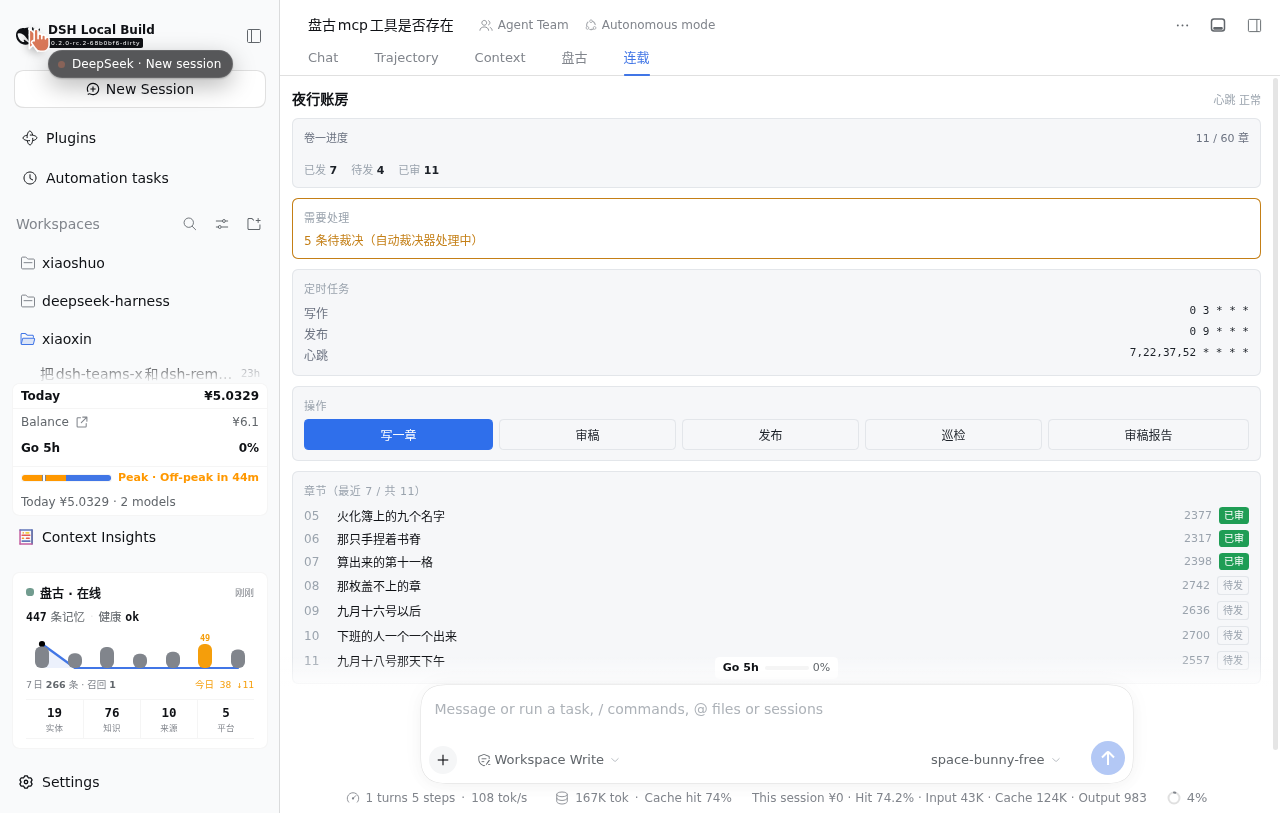
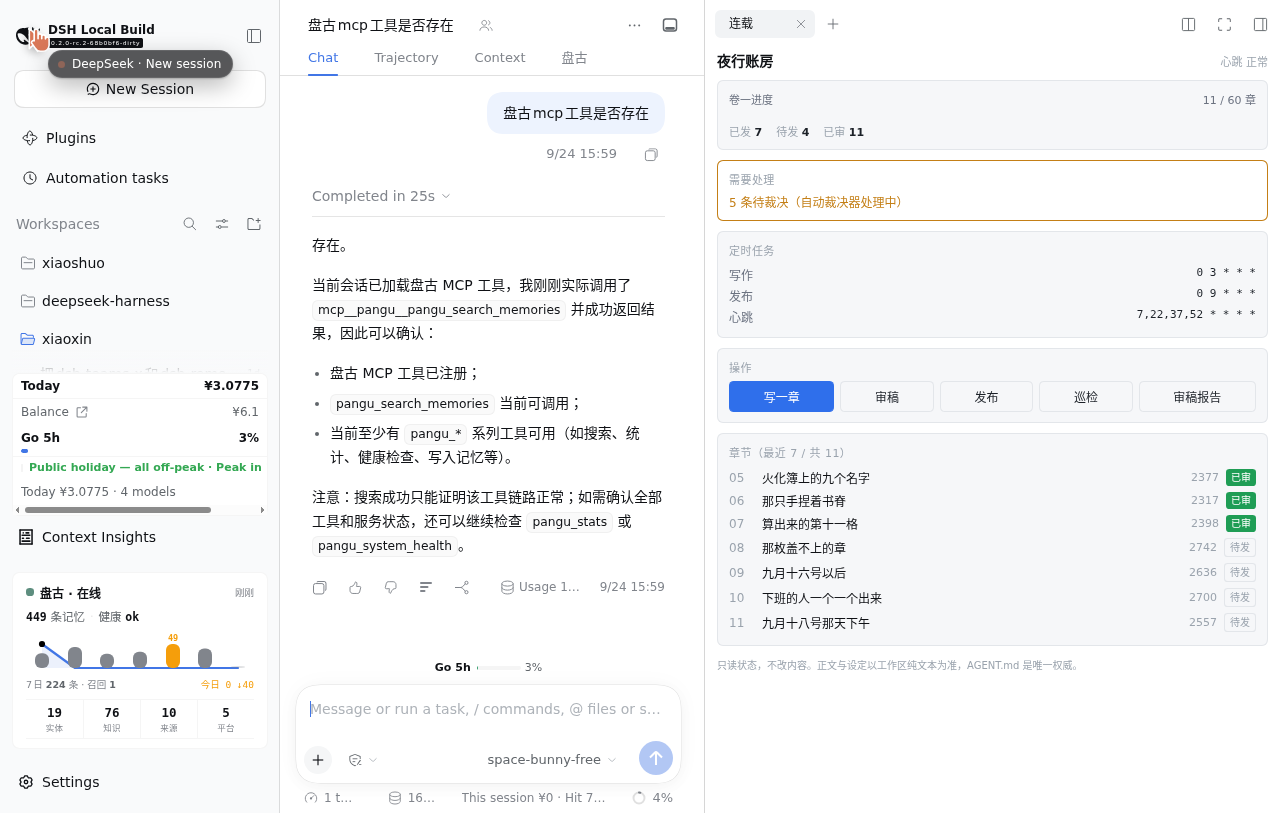
面板接通：右栏生效，「+」菜单打开，数据全部渲染
## 最后一环（不是代码 bug）
tabs.register 注册的是 tab **类型**，它出现在右栏的「+」菜单里；
tab **实例**需要被创建。我之前一直把「菜单里能看到连载」当成「面板已打开」，
于是在一个**空的 tab 条**上反复量、反复改代码 —— 代码从头到尾都是对的。

实测验证（点「+」→ 连载后）：
  连载 夜行账房 心跳正常 卷一进度 11/60 已发7 待发4 已审11
  需要处理 5 条待裁决 · 定时任务 3 条 · 操作 4 个按钮 · 章节徽标 7 行
重载后 tab 仍在（dockkit 按会话持久化）—— 用户只需打开一次。

## 本轮真正修掉的（都是真 bug，但不是最后那道门）
1. package.json 缺 dsh.client → 客户端模块从未被加载
2. ctx.slots 顶层解引用 → cannot get property "slots" without inject
3. 插槽是三层嵌套（rightbar → rightbar.session → sidebar.right.pane.tab）

## 教训
「注册成功」≠「已渲染」。判断 UI 是否生效，必须在 DOM 里看到它，
而不是看到菜单项、日志或注册返回值。

诊断日志已清理，16 项测试全过。README 补上「首次要手动打开」这一步。

diff --git a/lib/client.js b/lib/client.js
@@ -40,22 +40,12 @@ window.__ModuleLoader__.load({
   //   1) module 由 factory **自己造**，不是宿主传进来的 —— 我之前用宿主的 module 参数，
   //      结果 module 是 undefined，`module.exports = {...}` 静默失效，apply 永远不是函数。
   //   2) React 用 require('react') 拿，不是全局 —— 宿主已经把它打进 require 了。
-  try { localStorage.setItem('__xs_factory', 'called') } catch {}
   const module = { exports: {} }
   const React = require('react')
   const h = React.createElement
 
 
 
-  // ── DIAG（本轮排障用，定位后整段删除）──────────────────────────
-  const DIAG = (m) => {
-    try {
-      const a = JSON.parse(localStorage.getItem('__xs_diag') || '[]')
-      a.push(String(m).slice(0, 400))
-      localStorage.setItem('__xs_diag', JSON.stringify(a.slice(-30)))
-    } catch {}
-  }
-  try { localStorage.removeItem('__xs_diag'); localStorage.setItem('__xs_factory', 'pending') } catch {}
   const API = '/xiaoshuo/api'
 
   /* ── 设计令牌（跟随 DSH 亮/暗两套）── */
@@ -146,7 +136,6 @@ window.__ModuleLoader__.load({
 
   /* ── 主面板 ── */
   function Panel(props) {
-    DIAG('Panel 被渲染 props=' + Object.keys(props || {}).join(','))
     const [snap, setSnap] = React.useState(null)
     const [sched, setSched] = React.useState([])
     const [busy, setBusy] = React.useState('')
@@ -156,7 +145,6 @@ window.__ModuleLoader__.load({
 
     const load = React.useCallback(async () => {
       try {
-      DIAG('fetch 发出')
       const r = await fetch(`${API}/status`)
         const j = await r.json()
         if (j.ok) { setSnap(j.snapshot); setSched(j.schedule || []); setFail('') }
@@ -308,12 +296,10 @@ function TabTitle() {
 async function apply(ctx) {
   try {
     const TAB = 'dsh-xiaoshuo'
-    DIAG('apply 入口, ctx 键: ' + Object.keys(ctx).join(','))
 
     // ① 注册 tab 类型 —— 走响应式注入，服务晚到会自动重跑这一步
     ctx.inject(['sidebarRightTabs'], (injected) => {
       const tabs = injected.get('sidebarRightTabs')
-      DIAG('inject 回调触发, tabs=' + typeof tabs)
       if (tabs === undefined) return
       const disposeType = tabs.register({
         id: TAB,
@@ -328,28 +314,23 @@ async function apply(ctx) {
 
       // ② 注册内容插槽（keyed：用 key 绑到上面那个 tab id）
       const disposers = []
-      DIAG('准备 slots.inject; ctx.get(slots)=' + typeof ctx.get('slots'))
       try {
-        const d = ctx.get('slots').inject('sidebar.right.pane.tab', () => {
-          DIAG('pane.tab 插槽回调触发')
-          return ctx.get('slots').register(
+        disposers.push(ctx.get('slots').inject('sidebar.right.pane.tab', () =>
+          ctx.get('slots').register(
             { name: 'sidebar.right.pane.tab', key: TAB,
               inject: (sessionId) => ({ ...injected, sessionId }) },
             Panel,
-          )
-        })
-        disposers.push(d)
-        DIAG('pane.tab 注册成功, disposer=' + typeof d)
+          )))
+        disposers.push(ctx.get('slots').inject('sidebar.right.pane.tab.title', () =>
+          ctx.get('slots').register(
+            { name: 'sidebar.right.pane.tab.title', key: TAB,
+              inject: () => ({ title: () => '连载' }) },
+            TabTitle,
+          )))
       } catch (e) {
-        DIAG('pane.tab 抛错: ' + e.message)
-        DIAG('堆栈: ' + String(e.stack).slice(0, 500))
+        // slots.inject 在 ctx.inject 的回调里执行，异常到不了外层 try —— 这里单独兜住。
+        console.error('[dsh-xiaoshuo] 内容插槽注册失败:', e)
       }
-      disposers.push(ctx.get('slots').inject('sidebar.right.pane.tab.title', () =>
-        ctx.get('slots').register(
-          { name: 'sidebar.right.pane.tab.title', key: TAB,
-            inject: () => ({ title: () => '连载' }) },
-          TabTitle,
-        )))
       return () => {
         for (const d of disposers.reverse()) { try { d() } catch {} }
         try { disposeType() } catch {}

diff --git a/README.md b/README.md
@@ -50,7 +50,9 @@
 
 ## 面板
 
-会话内「连载」标签（`conversation.view` 插槽）：
+**位置：右侧边栏。首次使用要在右栏点「+」→「连载」把它打开**（dockkit 会按会话记住，
+之后一直在）。这一步不可省：`tabs.register` 注册的是 tab **类型**（出现在「+」菜单里），
+tab **实例**要由用户或宿主创建 —— 菜单里能看到「连载」≠ 面板已打开。
 
 - 分段刻度进度条：绿=已发、蓝=已写未发、灰=未写
 - 定时任务一览
